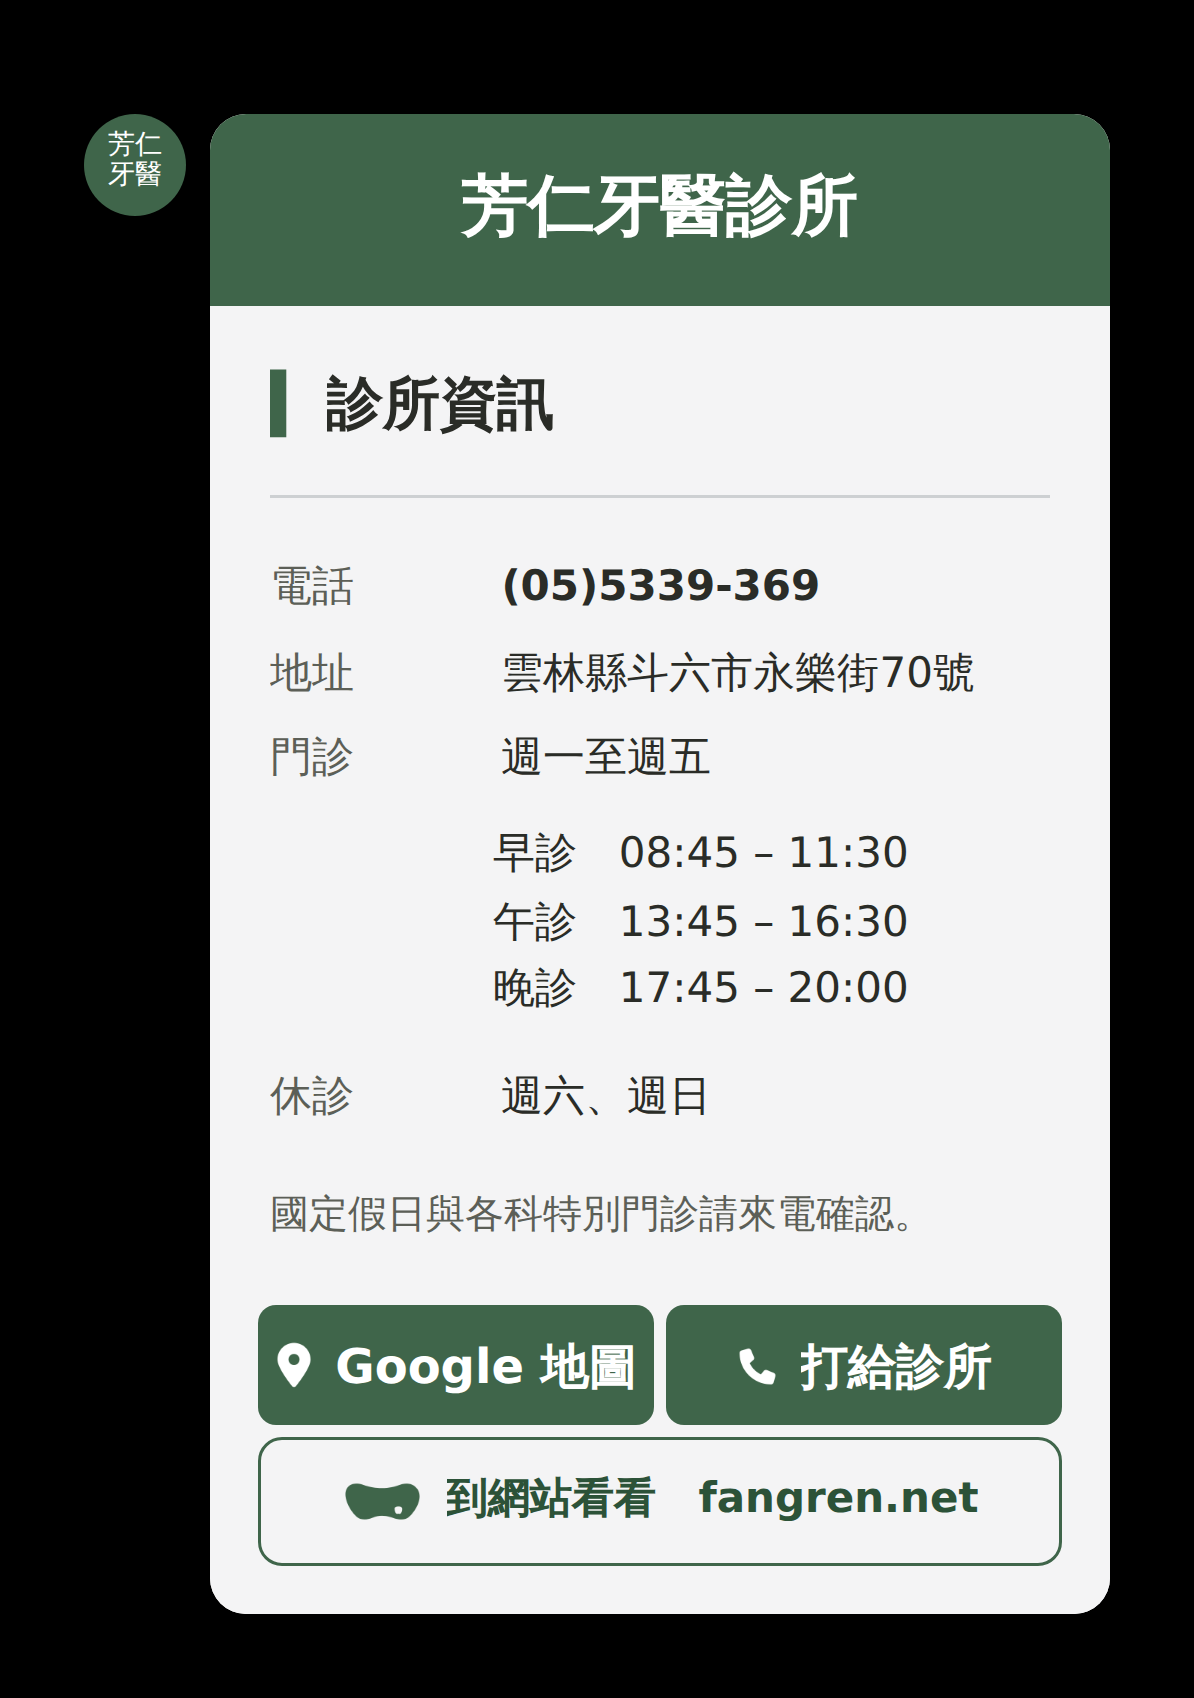
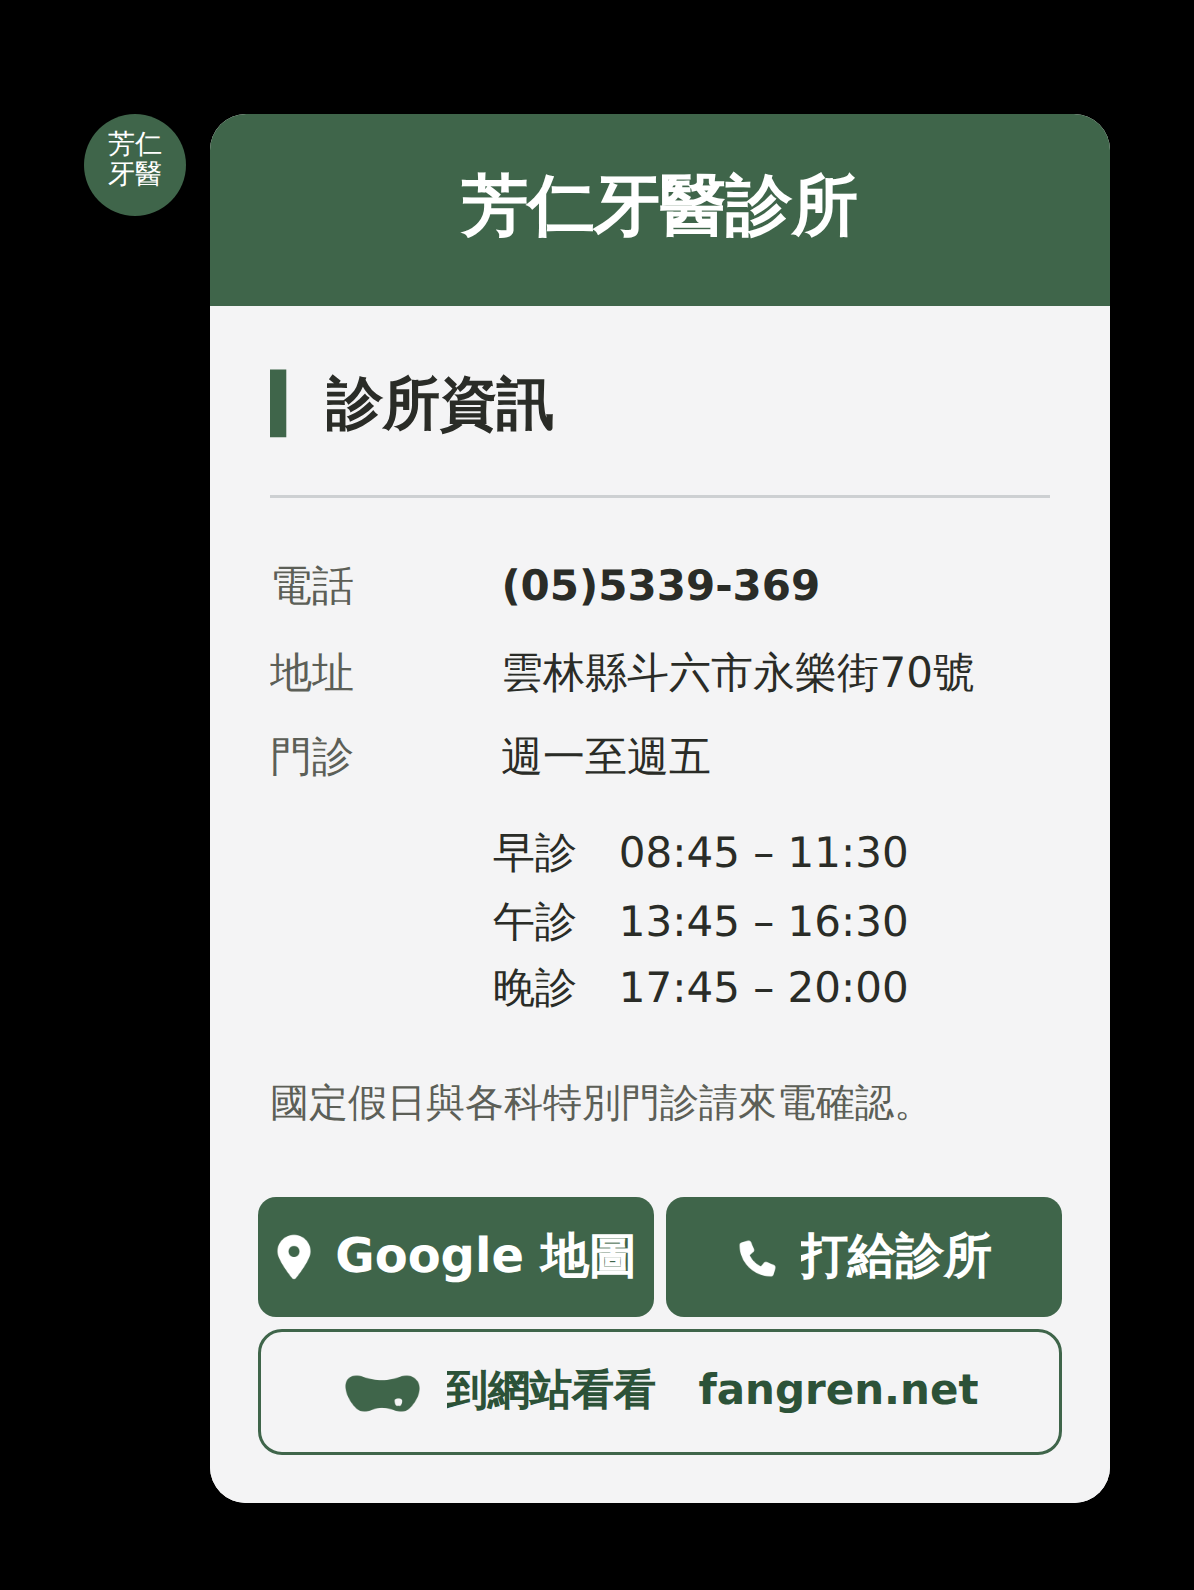
診所資訊卡：休診那列拿掉，取回 main 上重跑過的 og-home.jpg（部定專科 6 個）
部定專科那三格是烘在 og-home.jpg 上的，JSON 不必改。

Claude-Session: https://claude.ai/code/session_01QMa36HgXCp2rYEV7ykbWqK

diff --git a/drafts/line-oa/README.md b/drafts/line-oa/README.md
@@ -1406,3 +1406,15 @@ cards/NN-<img>.json      十二張各一份單張
 ⚠⚠ 白字對底 1.58~5.21，**十二張裡只有超大蛀牙那張過 4.5**，
 其餘十一張都低於 AA（最低是植牙的 1.58）。這是他看過三案之後的取捨，
 同站上兒牙填色白字 3.22 那一格 —— **不要拿對比度來訂正它**。
+
+### 診所資訊卡更新（2026-09-02）
+
+1. **部定專科 5 → 6。** ⚠ **JSON 一個字都不必改** —— 那三格是**烘在
+   `assets/og-home.jpg` 上的**，不是 Flex 的文字。站上 2026-08-30 已經改好
+   （`index.html` 的窄帶 ＋ `tools/og-plate.mjs` 的 `STATS_CELLS`，
+   陳芷鈴醫師取得牙髓病科部定專科），圖也重跑過了。
+   這一輪做的只有把 `assets/og-home.jpg` 從 `main` 取回來給預覽器用。
+   **通則：卡片上的東西不一定在 JSON 裡 —— 先確認那是文字還是圖上的字。**
+2. **「休診　週六、週日」整列拿掉**（使用者指定）。
+   門診只列週一至週五，沒列到的就是休診，不另外寫。
+   ⚠ 底下那句「國定假日與各科特別門診請來電確認。」**留著**，那是另一件事。
